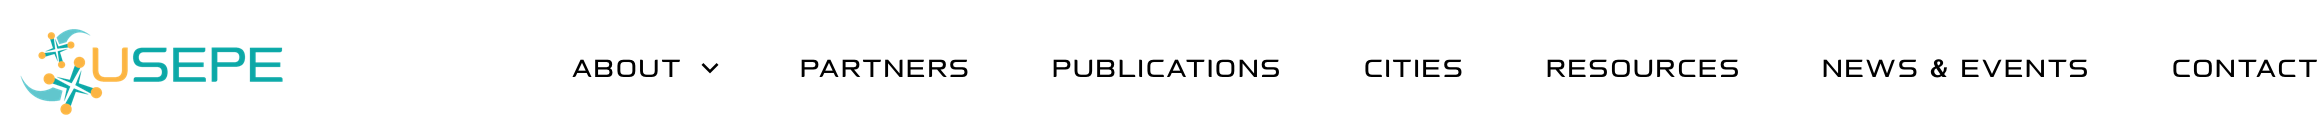
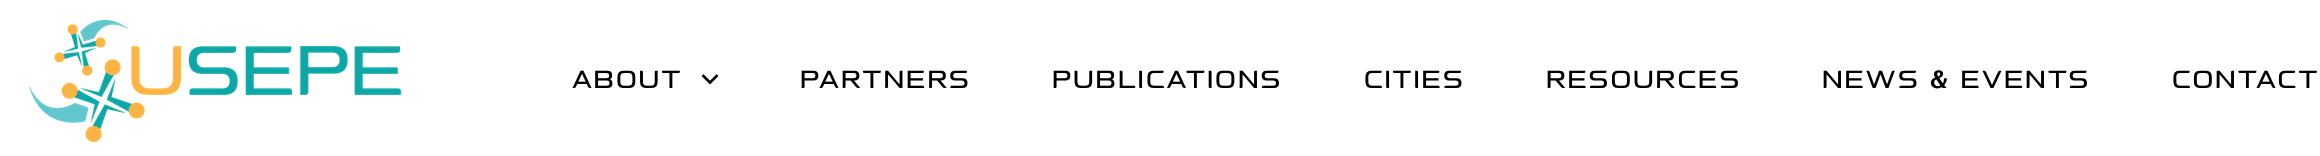
more updates

diff --git a/CSS/style.css b/CSS/style.css
@@ -5,9 +5,18 @@
          background: #F8F8F8;
          overflow-x: hidden;
       }
+      .gridoverlay {
+         position: absolute;
+         top: 0;
+         left: 0;
+      }
+      .gridoverlay img {
+         width: 100%;
+         opacity: 0.4;
+      }
       .nav {
          text-align: center;
-         padding: 10px 0;
+         padding: 5px 0;
          position: fixed;
          width: 100%;
          z-index: 5;

diff --git a/usepe_home.html b/usepe_home.html
@@ -28,6 +28,9 @@
    <div class="homevid">
       <video autoplay muted loop src="images/hero3.mp4" type="video.mp4">
       </video>
+      <div class="gridoverlay">
+         <img src="images/herooverlay.png">
+      </div>
       <div class="homeherotxt">
          <img src="images/herotxt.png">
       </div>
